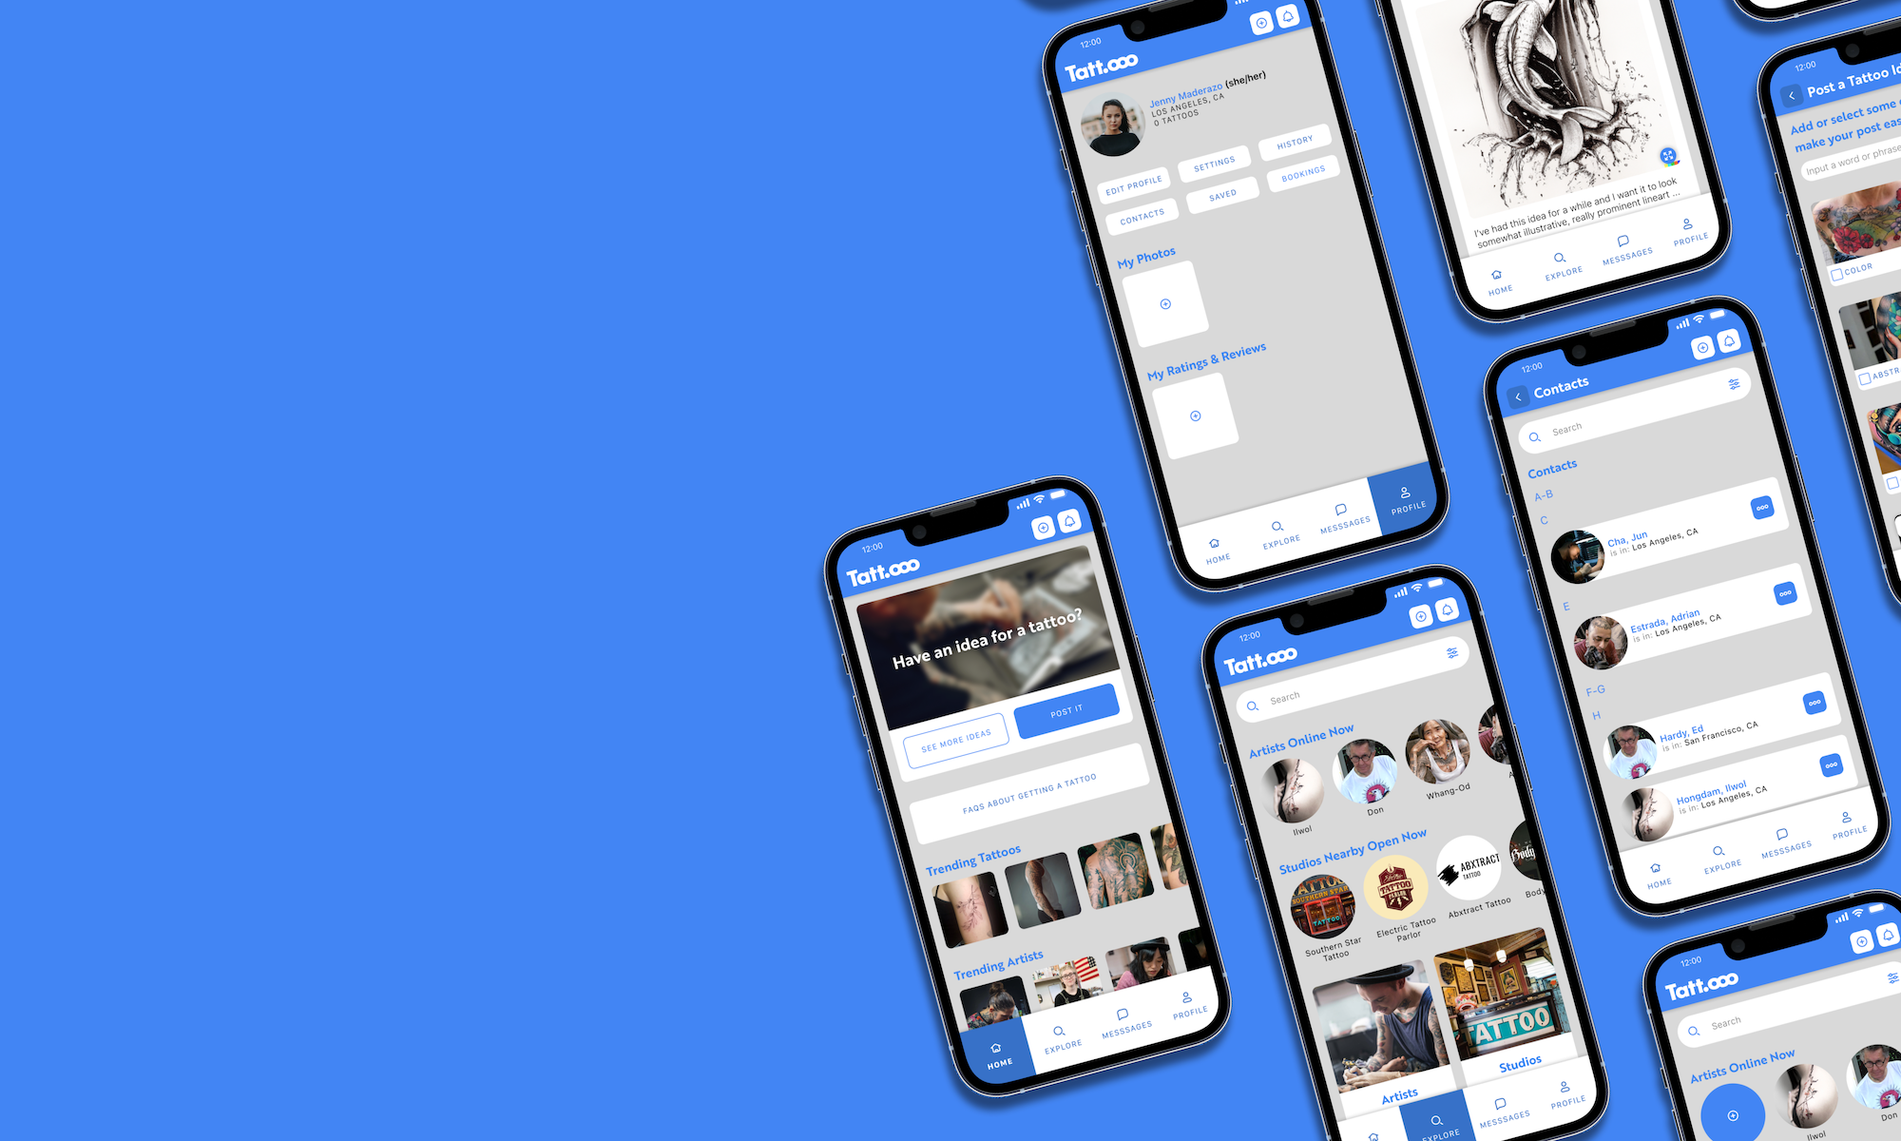
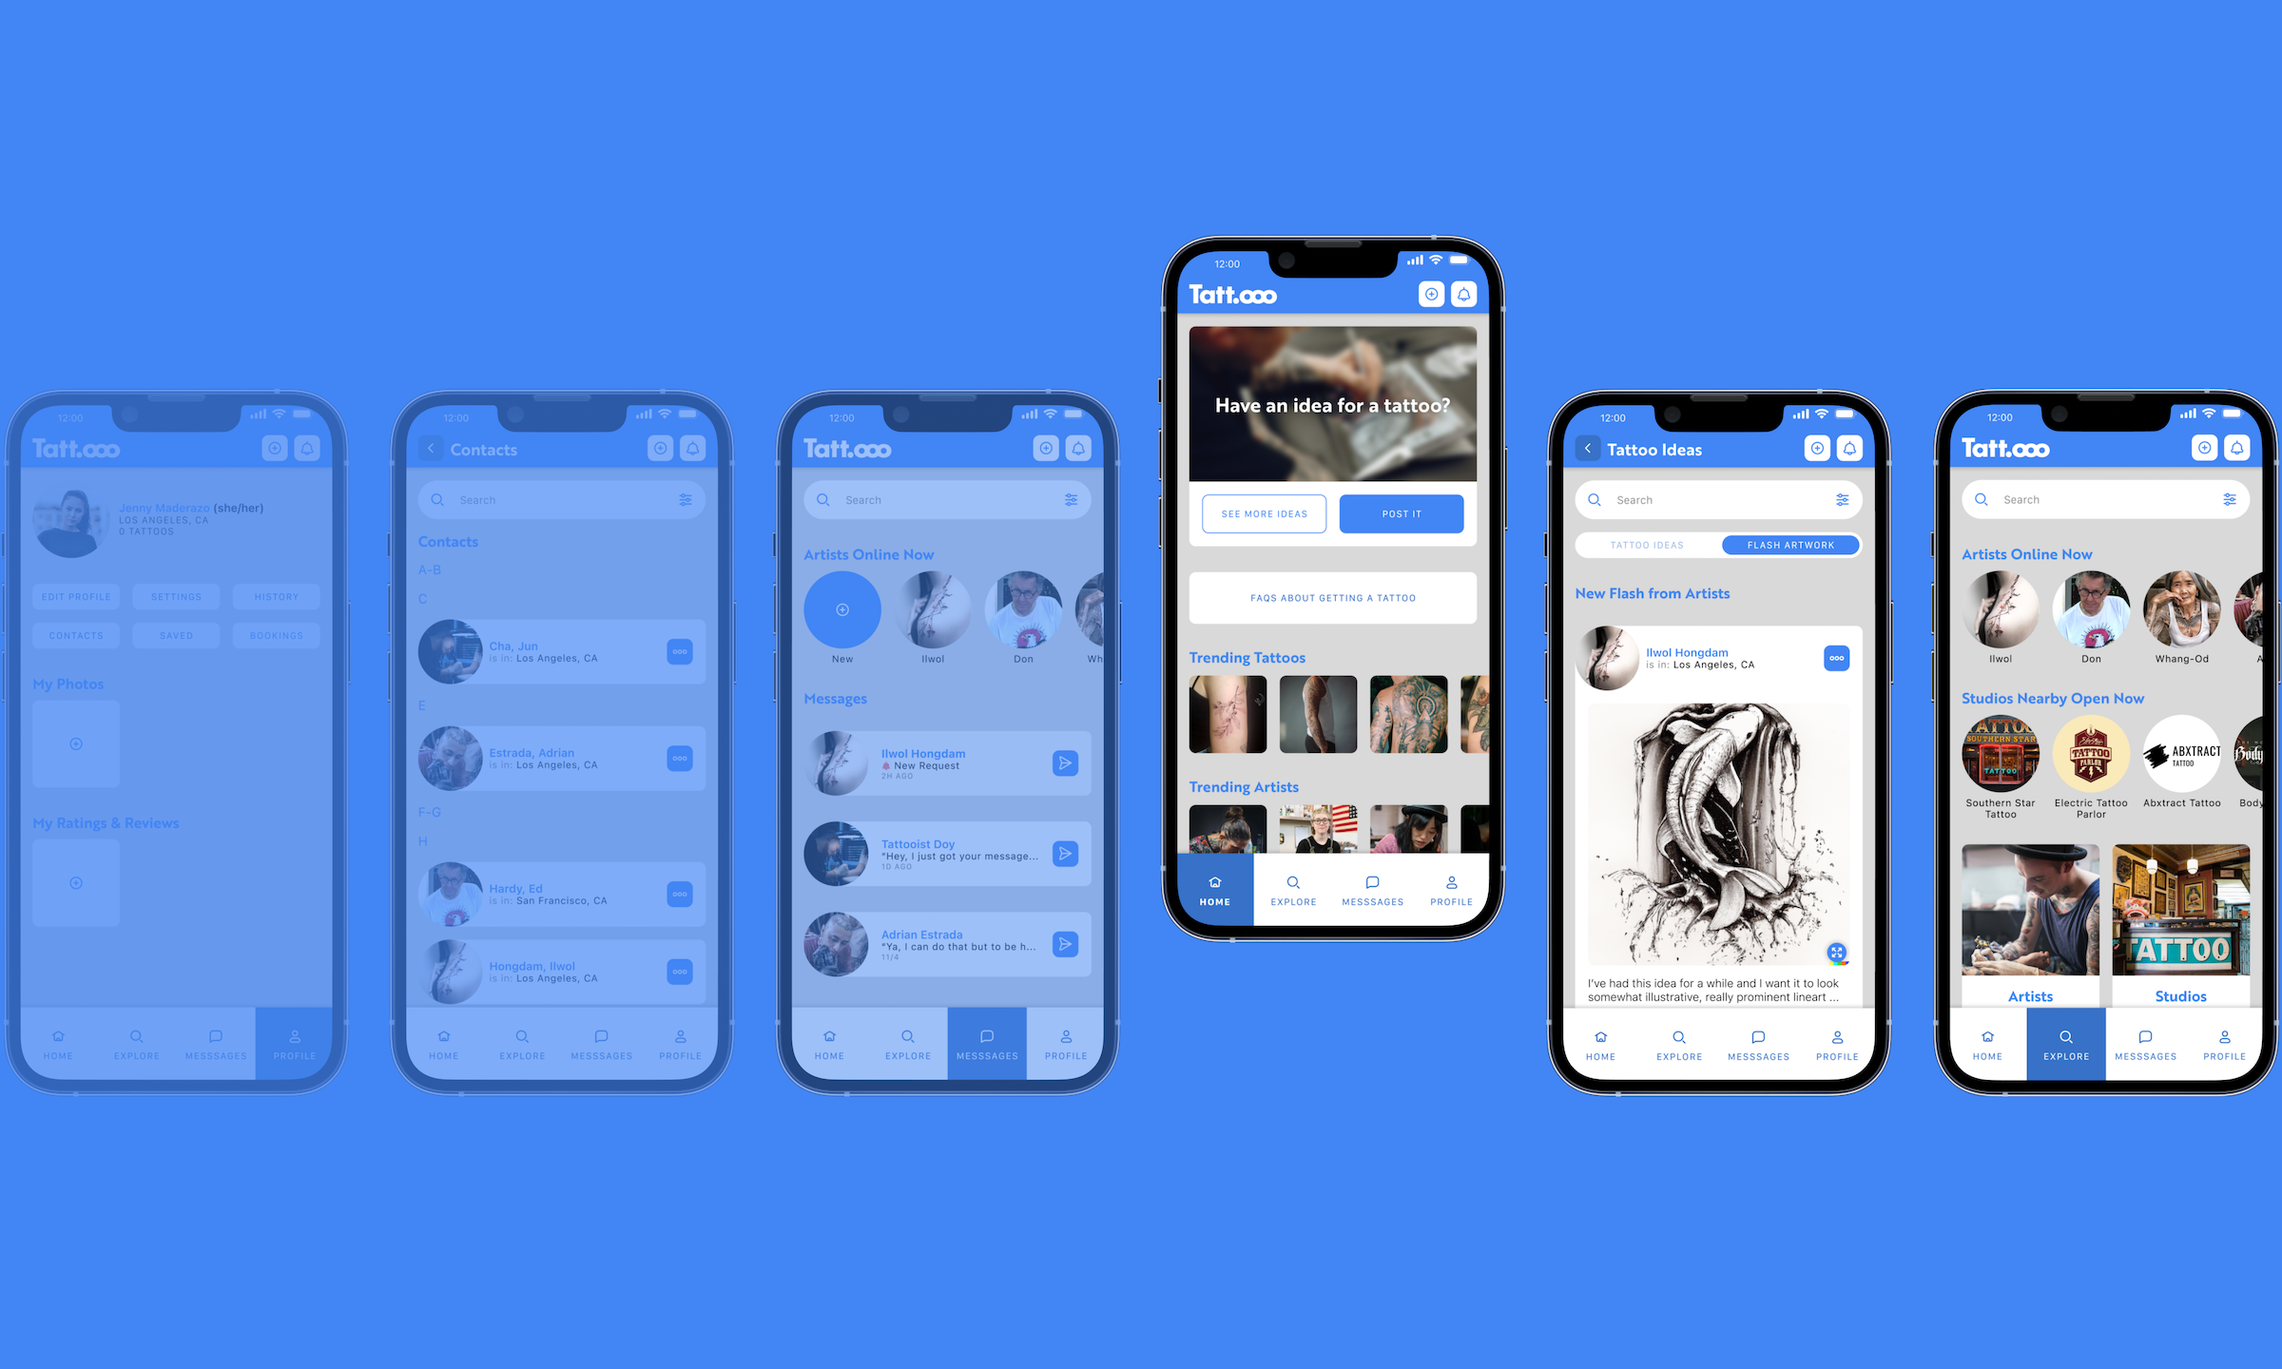
Updated visuals for Side Project
• Edited some copy
• Updated some images
• Fixed some visual styling issues

diff --git a/pages/carcontrols.vue b/pages/carcontrols.vue
@@ -7,17 +7,26 @@
         <IntroTitle :bgColor="bgColor" mediaBackground="bg-grayDarkest">
             <template #title>{{ project.title }} —</template>
             <template #media>
-                <VideoCover
+                <div class="w-full h-full flex justify-center">
+                    <ImagePrimary 
+                        srcsetLarge="/Experiments/CarControls/0_Background_Full.png"
+                        srcsetMedium="/Experiments/CarControls/0_Background_Med.png"
+                        srcsetSmall="/Experiments/CarControls/0_Background_Small.png"
+                        altText="A mockup of a modern car dashboard with a singular large touchscreen in the center; below the screen are 2 knobs but the center of each knob is also a touchscreen."
+                        additionalStyles="min-w-full min-h-full object-cover"
+                    />
+                </div>
+                <!-- <VideoCover
                 :videoSources="[
                     { src: '/Experiments/CarControls/0_Animated_Full.mp4', type: 'video/mp4' },
                     { src: '/Experiments/CarControls/0_Animated_720.mp4', type: 'video/mp4' },
                     { src: '/Experiments/CarControls/0_Animated_480.mp4', type: 'video/mp4' },
                     ]">
-                </VideoCover>
+                </VideoCover> -->
             </template>
             <template #info>
                 <PillsAlone 
-                    :items="['Automotive UX', '2 Weeks', 'October 2023', 'Solo Project']">
+                    :items="['Automotive UX', 'Role: UX Designer', '2 Weeks', 'October 2023', 'Solo Project']">
                 </PillsAlone>
             </template>
             <template #tools>
@@ -30,11 +39,11 @@
         <!-- CASE STUDY INTRO -->
         <IntroStructure :showDisclaimer="false">
             <template #overview>
-                <p class="mb-4">A brief project exploring how to improve the relationship that drivers have with their car through a combination of both touchscreen and physical controls, rather than simply replacing physical controls as much as possible by housing everything in a touchscreen.</p>
+                <p class="mb-4">A brief project exploring how to improve the relationship that drivers have with their car through a combination of both touchscreen and physical controls, rather than the preferred method of replacing physical controls as much as possible by housing everything in a touchscreen.</p>
             </template>
             <template #problem>
                 <p class="text-sm text-grayMiddle ml-8">
-                    Many car owners are frustrated by the lack of physical controls, like knobs and buttons, that have been replaced by touch screens which can be slow, inconvenient, unresponsive, and even unsafe to use.
+                    Many car owners are frustrated by the lack of physical controls, like knobs and buttons, that have been replaced by touchscreens which can be slow, inconvenient, unresponsive, and even unsafe to use.
                 </p>
             </template>
             <template #goals>
@@ -54,20 +63,22 @@
         <!-- HOW MIGHT WE & HERO IMAGE -->
         <IntroHowMightWe
             how="Core focus"
-            direction="Explore ways that physical controls can be combined with touchscreens to consolidate and centralize interactions"
-            title="Unifying Screens with Physical Controls"
+            direction="Goal: explore ways that physical controls can be combined with touchscreens to consolidate and centralize interactions"
+            title="The problem with touchscreens"
             :bgColor="bgColor"
         >
             <template #caption>
-                <p class="pl-0 md:pl-8 font-main text-sm">The prototype and interaction I ended up with is a combination of 2 physical knobs with integrated touchscreens that can work together with the IVI system to control multiple aspects at once.</p>
+                <p class="pl-0 font-main text-sm">A growing number of vehicles have looked for ways to reduce costs, understandably. One such ethos reduces the complexity of a typical dashboard as much as possible by removing all of the physical controls; some manufacturers have even gone as far as removing the entire gauge cluster from behind the steering wheel. All of those controls and displays are then housed in one or more touchscreens.</p>
+                <p class="pl-0 pt-4 font-main text-sm">Not only can this be dangerous, its also slower to navigate through layers of controls, even more so while driving, and introduces other problems. Some touchscreens have issues with multi-touch interactions, and designing singular screens to be interactive for 2 people at once (like a driver and passenger) introduces even more room for mistakes.</p>
             </template>
             <template #media>
                 <ImagePrimary
-                    srcset-small="/Experiments/CarControls/0_Cover_Sm.png"
-                    srcset-medium="/Experiments/CarControls/0_Cover_Med.png"
-                    srcset-large="/Experiments/CarControls/0_Cover_Full.png"
-                    alt-text="A mockup of the interior and dashboard of a car, showing the center screen accompanied by two circular touch screens below, the outer edges of which also act as physical knobs."
+                    srcset-small="/Experiments/CarControls/0_Problem.jpg"
+                    srcset-medium="/Experiments/CarControls/0_Problem.jpg"
+                    srcset-large="/Experiments/CarControls/0_Problem.jpg"
+                    alt-text="A mockup of a 2017 Tesla Model 3 interior, showing the entire dashboard. To the left is the steering wheel, in the center is a large touchscreen, but there's no other controls or displays, not even a speedometer gauge."
                 />
+                <p class="pl-4 md:pl-8 font-main text-xs text-grayMiddle">©Reuters 2017</p>
             </template>
         </IntroHowMightWe>
 
@@ -78,13 +89,12 @@
             title="Concept & Feedback"
             iconPack="fas"
             iconName="lightbulb"
-            :visibilityMode="1"
+            totalProcess="2"
             headerRef="1"
-            :isConcise="isConcise"
         >
-            <ContentBlurb>
+            <!-- <ContentBlurb>
                 <p>When learning about automotive UX, one of my first inclinations was to try to figure out a better solution than a singular touch screen to house the myriad of controls normally arrayed on the dashboard. Since the driving force behind this shift is the cost savings from not having to manufacturer all of the controls, knobs, sliders, and the extensive electric systems to connect them all, the solution should be as minimal as possible while still allowing for multiple types of control and interactions.</p>
-            </ContentBlurb>
+            </ContentBlurb> -->
 
             <!-- INITIAL SKETCH -->
             <ContentMediaWithCaption
@@ -99,6 +109,7 @@
                         srcset-medium="/Experiments/CarControls/1_Sketch_Med.png"
                         srcset-large="/Experiments/CarControls/1_Sketch.png"
                         alt-text="A rough sketch of the dashboard and center console of a car, showing the center touch screen and two knobs underneath it"
+                        additionalStyles="md:px-16 lg:px-32 xl:px-40"
                     />
                 </template>
             </ContentMediaWithCaption>
@@ -108,7 +119,7 @@
                 title="Wireframing Feedback"
             >
                 <template #caption>
-                    <p>Working from the initial idea, I sketched some low fidelity wireframes to start figuring out the interactions. I showed this series of sketches and flows to some of my associates and, among other conversations (about Google’s Nest thermostat, for instance) got this feedback which really helped to clarify how I should move forward with my exploration.</p>
+                    <!-- <p>I showed this series of low-fidelity sketches and flows to some of my associates and, among other conversations (about Google’s Nest thermostat, for instance) got this feedback.</p> -->
                 </template>
                 <template #custom>
                     <ContentMediaWithThumbs>
@@ -119,7 +130,7 @@
                                 iconName="1" 
                                 textStyles="italic"
                             >
-                                “Are these touch screen or will they be controlled entirely by rotating and clicking the dial?”
+                                “Are these touch screen or will they be controlled only by rotating and clicking the dial?”
                             </ThumbNotation>
                             <ThumbNotation 
                                 :colorOptions="['text-white', bgColor]" 
@@ -127,11 +138,11 @@
                                 iconName="2" 
                                 textStyles="italic"
                             >
-                                “The dials should have a preview of all of the available parameters, instead of focusing on one at a time, so its easier for users to get to the one they want to change.”
+                                “The dials should have a preview of all of the available options, instead of focusing on one at a time, so its easier for users to get to the one they want to change.”
                             </ThumbNotation>
                         </template>
                         <template #media>
-                            <div class="rounded-sm md:rounded-md bg-grayDarker">
+                            <div class="bg-grayDarker">
                                 <ImagePrimary 
                                     srcsetLarge="/Experiments/CarControls/1_LowFidelity.png"
                                     srcsetMedium="/Experiments/CarControls/1_LowFidelity_Med.png"
@@ -152,20 +163,19 @@
             title="Prototyping"
             iconPack="fas"
             iconName="pen-to-square"
-            :visibilityMode="1"
+            totalProcess="2"
             headerRef="2"
-            :isConcise="isConcise"
         >
-            <ContentBlurb>
+            <!-- <ContentBlurb>
                 <p>I moved to a connected prototype in about a week, incorporating the feedback I’d received from my sketches.</p>
-            </ContentBlurb>
+            </ContentBlurb> -->
 
             <!-- TESTING FLOWS -->
             <ContentCaptionWithCustom
-                title="Testing Flows"
+                title="Testing Feedback"
             >
                 <template #caption>
-                    <p>Staying in low fidelity, I was able to quickly flesh out a prototype with some basic user flows to test whether or not the concept can be useful. These are the main pieces of feedback I received.</p>
+                    <!-- <p>Staying in low fidelity, I was able to quickly flesh out a prototype with some basic user flows to test whether or not the concept can be useful. These are the main pieces of feedback I received.</p> -->
                 </template>
                 <template #custom>
                     <ContentMediaWithThumbs>
@@ -188,7 +198,7 @@
                             </ThumbNotation>
                         </template>
                         <template #media>
-                            <div class="rounded-sm md:rounded-md bg-grayDarker">
+                            <div class="bg-grayDarker">
                                 <ImagePrimary 
                                     srcsetLarge="/Experiments/CarControls/2_Iteration_Full.png"
                                     srcsetMedium="/Experiments/CarControls/2_Iteration_Med.png"
@@ -206,11 +216,11 @@
                 title="Refined"
             >
                 <template #caption>
-                    <p class="mb-4">For one last exploration, I applied the previous feedback. I created a default screen (A/C temperature) with the idea that this would be selectable in the Settings. There’s also individual controls for each seat so that each knob can be in different categories, unlike the previous prototype.</p>
-                    <p>I also slightly reorganized the layout and control scheme. Since the turning ring of the knob can be pressed inward to make selections, I realized it shouldn’t be too difficult (hardware-wise) to pull it outward for another control. This provides more navigation opportunities to go forward and backward through layers.</p>
+                    <p class="mb-4">I created a default screen with the idea that your preferred default would be selectable in Settings. There’s also individual controls for each seat so that each knob can be in different categories, unlike the previous prototype.</p>
+                    <p>Since the turning ring of the knob can be pressed inward to make selections, I realized it shouldn’t be too difficult (hardware-wise) to pull it outward for another control. This provides more navigation opportunities to go forward and backward through layers.</p>
                 </template>
                 <template #media>
-                    <div class="rounded-sm md:rounded-md bg-grayDarker">
+                    <div class="bg-grayDarker">
                         <ImagePrimary 
                             srcsetLarge="/Experiments/CarControls/2_Refined_Full.png"
                             srcsetMedium="/Experiments/CarControls/2_Refined_Med.png"
@@ -238,8 +248,8 @@
                     title="Final Thoughts & Next Steps"
                 >
                     <template #caption>
-                        <p class="mb-4">Manufacturers seem to understand that drivers don’t like the reliance on touchscreens but aren’t very willing to work on more physical controls. There needs to be a medium between the two extremes. Ford, for instance, introduced this IVI system in the Mach E. It has a physical knob embedded near the bottom edge of the screen, which is similar to the solution I explored but with the added expenses of a massive, complex, custom-shaped touch screen with integrated knob and additional, small screen.</p>
-                        <p>This entire project got me extremely intrigued by automotive UX and I would be very happy to continue exploring the industry.</p>
+                        <p class="mb-4">There needs to be a medium between the two extremes of <span class="italic">all touchscreen</span> and <span class="italic">all physical</span>. Ford, for instance, introduced this IVI system in the Mach E. It has a physical knob embedded near the bottom edge of the screen, which is similar to the solution I explored but with the added expenses of a massive, complex, custom-shaped screen with integrated knob and additional, small screen.</p>
+                        <p>This entire project got me extremely intrigued by HMI and the complexities of working within massive organizations and I would be very happy to continue exploring HMI solutions.</p>
                     </template>
                     <template #media>
                         <ImagePrimary

diff --git a/pages/tattooo.vue b/pages/tattooo.vue
@@ -11,8 +11,8 @@
                     <ImagePrimary 
                         srcsetLarge="/Work/Tattooo/0_Background_Full.png"
                         srcsetMedium="/Work/Tattooo/0_Background_Med.png"
-                        srcsetSmall="/Work/Tattooo/0_Background_Med.png"
-                        altText="A quadrant matrix showing different positions of competitive platforms; the x-axis shows General on the left and Focused on the right, while the y-axis shows Centralized at the top and Decentralized at the bottom."
+                        srcsetSmall="/Work/Tattooo/0_Background_Small.png"
+                        altText="A series of mockups showing multiple iPhones. Each iPhone shows a different, high-fidelity screen of a mobile app. The mobile app shows pages like Home, Messages, and Contacts in a minimal palette of white and blue."
                         additionalStyles="min-w-full min-h-full object-cover"
                     />
                     <!-- <LottieParent bgColor="bg-tattoooSecondaryDarker" :animation-data="animationData" alt="An animation showing a quick snapshot of what this app can help facilitate: when you get a tattoo idea, you can use this app to post about it, talk to an artist about it, and get the tattoo of your dreams with the artist that's right for you."></LottieParent> -->
@@ -20,7 +20,7 @@
             </template>
             <template #info>
                 <PillsAlone 
-                    :items="['Role: UX Researcher, Product Designer', 'Mobile App', '14 Weeks', 'Sept - December 2022', 'Solo Project']">
+                    :items="['Mobile App', 'Role: UX Researcher, Product Designer', '14 Weeks', 'Sept - December 2022', 'Solo Project']">
                 </PillsAlone>
             </template>
             <template #tools>

diff --git a/components/ThumbNotation.vue b/components/ThumbNotation.vue
@@ -1,9 +1,9 @@
 <template>
     <div class="bg-transparent rounded-sm flex flex-row justify-start items-start w-full space-x-4 text-grayDarker">
-        <div class="w-10 h-10 relative rounded-sm" :class="colorOptions">
-            <FontAwesomeIcon :icon="[iconPack, iconName]" class="text-xl absolute top-1/2 left-1/2" style="transform: translateX(-50%) translateY(-50%);" />
+        <div class="w-8 h-8 relative rounded-full" :class="colorOptions">
+            <FontAwesomeIcon :icon="[iconPack, iconName]" class="text-md absolute top-1/2 left-1/2" style="transform: translateX(-50%) translateY(-50%);" />
         </div>
-        <div class="my-0.5 pt-2 flex-1 min-w-0">
+        <div class="my-0.5 pt-1 flex-1 min-w-0">
             <p class="font-main break-words" :class="textStyles">
                 <slot></slot>
             </p>

diff --git a/components/VideoPlayer.vue b/components/VideoPlayer.vue
@@ -1,6 +1,6 @@
 <template>
-  <div>
-    <video autoplay loop muted playsinline class="full-size-video aspect-auto rounded-sm md:rounded-md">
+  <div class="notch">
+    <video autoplay loop muted playsinline class="full-size-video aspect-auto">
       <source 
       v-for="source in videoSources" :key="source.src"
               :src="source.src" :type="source.type" :media="source.media">
